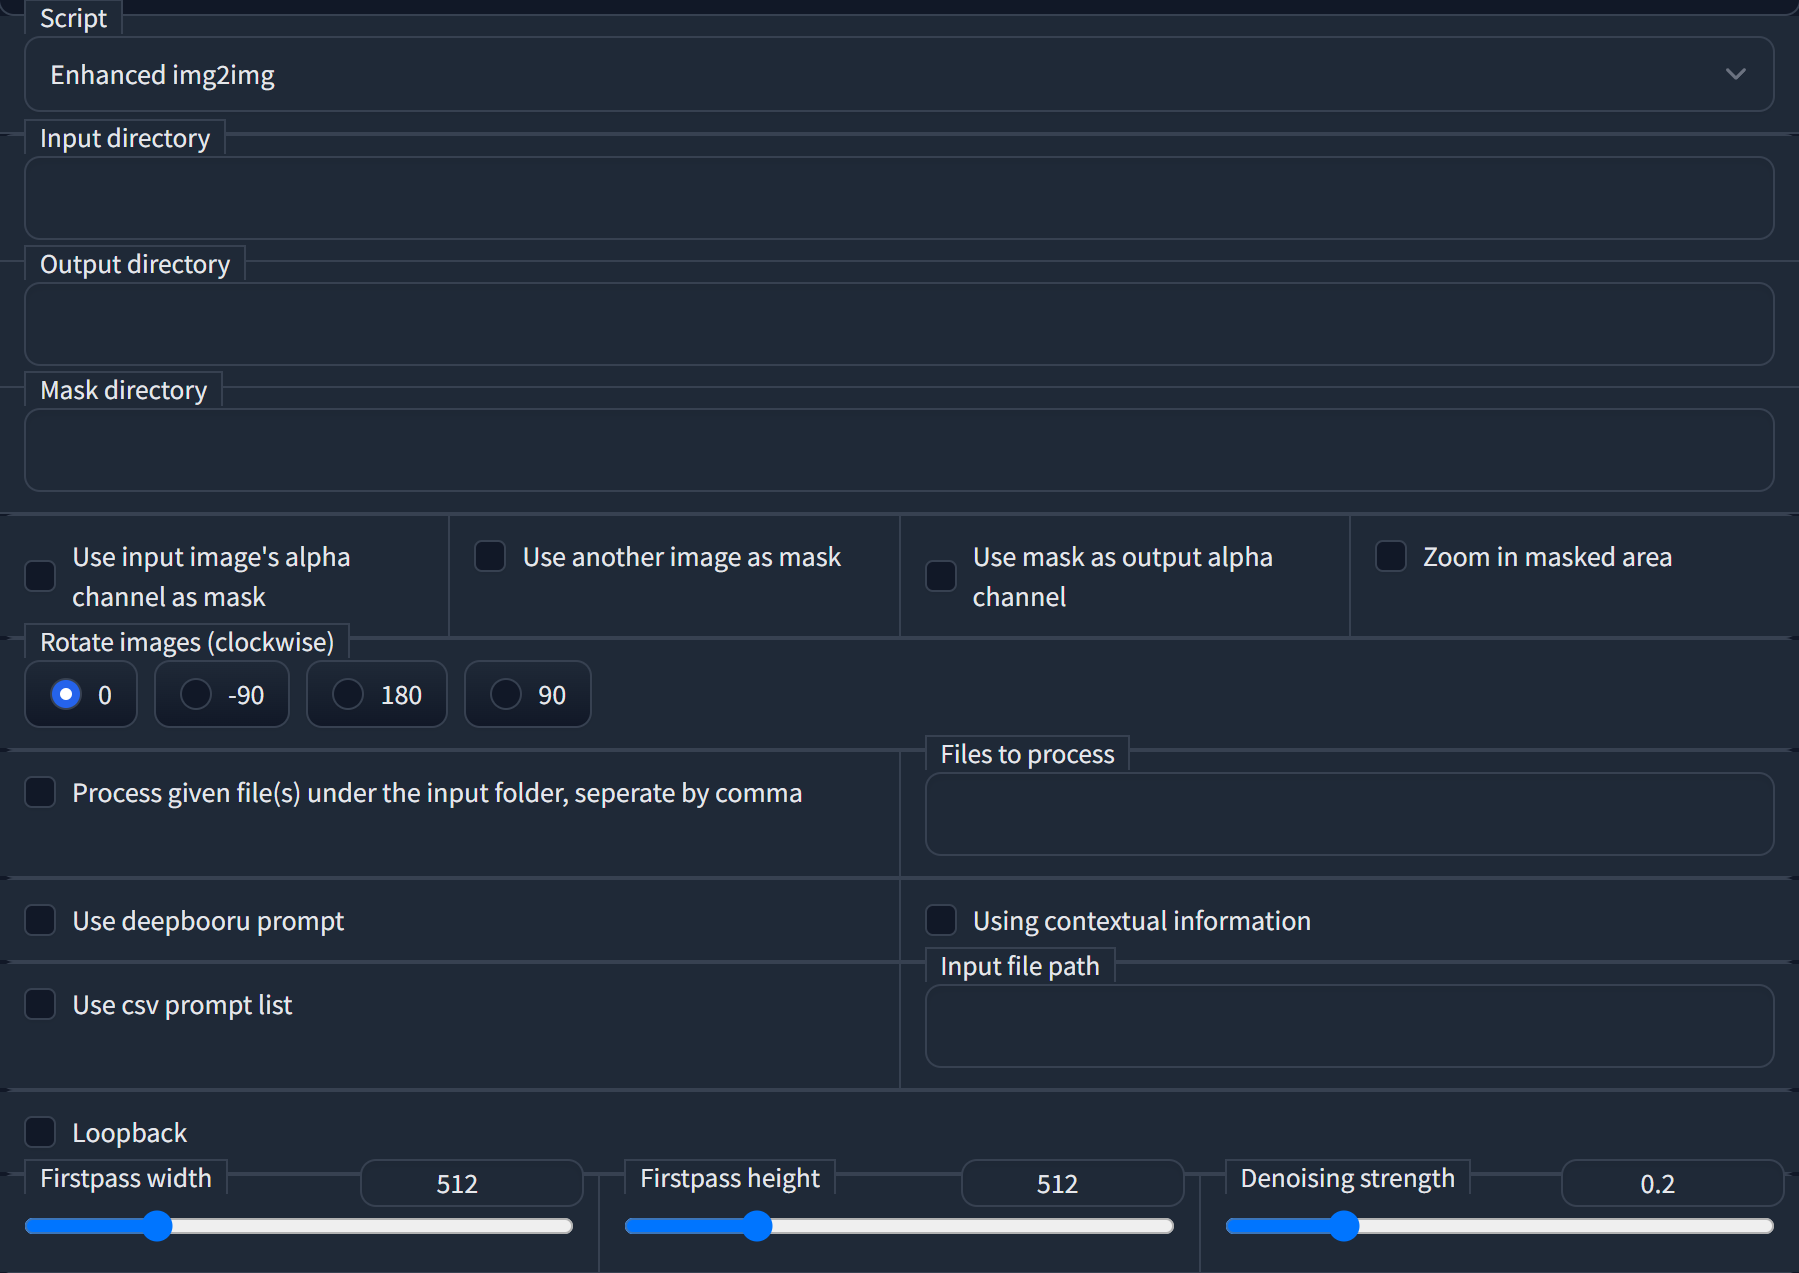
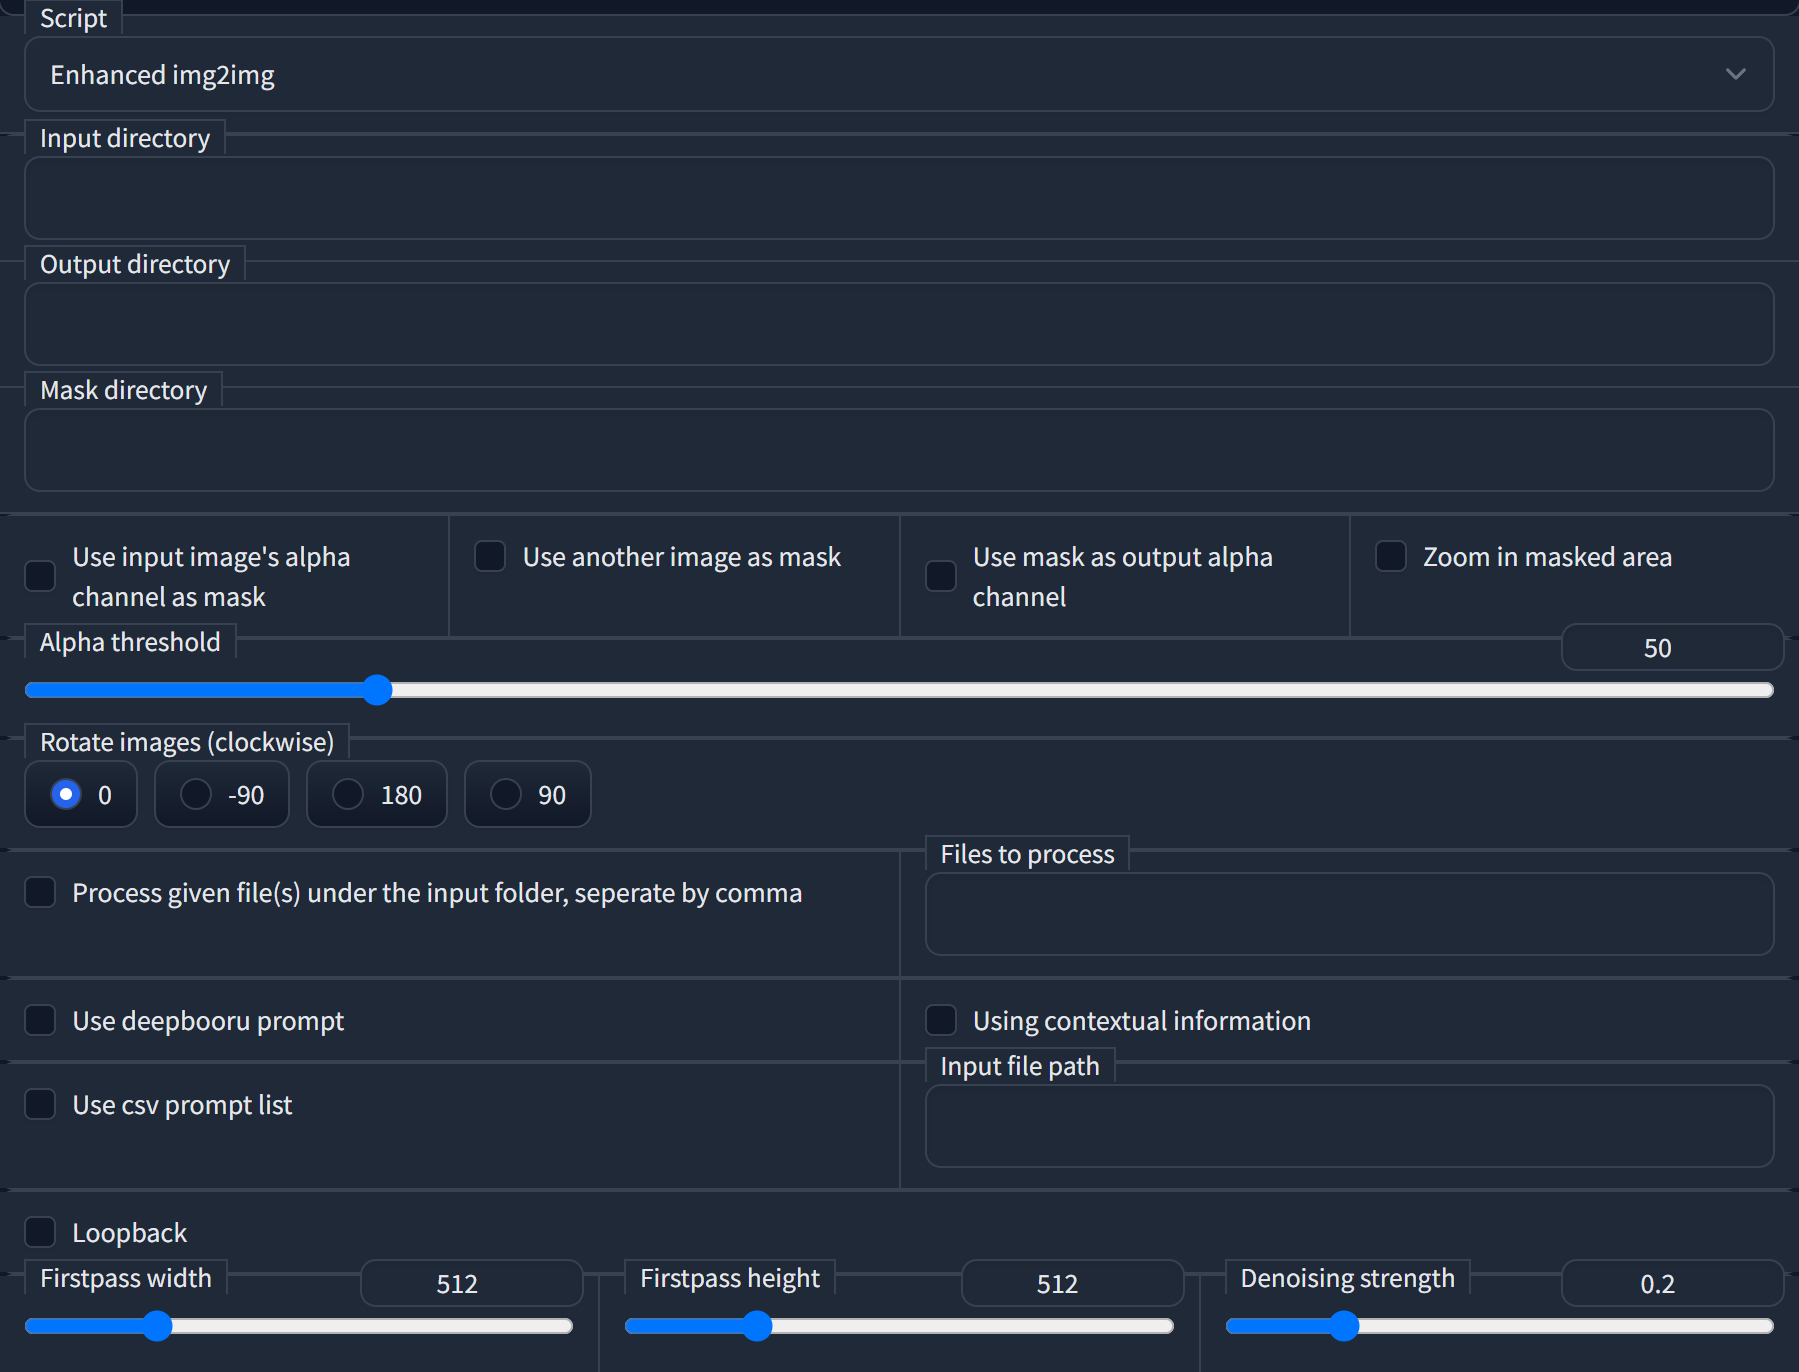
Update README

diff --git a/README.md b/README.md
@@ -12,16 +12,14 @@ Switch to **"img2img"** tab, under the **"script"** column, select **"enhanced i
 
 ![](screenshot.png)
 
- - **Input directory**: a folder containing all the images you want to process.
- - **Output directory**: a folder to save output images.
- - **Mask directory**: a folder containing all the masks. *Not essential*.
- - **Use input image's alpha channel as mask**: if your original images are PNG files with transparent backgrounds, you can use this option to create outputs with transparent backgrounds. 
-   *Note: when this option is selected, the masks in the "**mask directory**" will not be used.*
- - **Use another image as mask**: use masks in the "**mask directory**" to inpaint images.
-   *Note: if the relevant masks are blank images or no mask is provided, the original images will not be processed.*
- - **Use mask as output alpha channel**: as it says.
-   *Note: when the "**use input image's alpha channel as mask**" option is selected, this option is automatically activated.*
+  - **Input directory**: a folder containing all the images you want to process.
+  - **Output directory**: a folder to save output images.
+  - **Mask directory**: a folder containing all the masks. *Not essential*.
+  - **Use input image's alpha channel as mask**: if your original images are PNG files with transparent backgrounds, you can use this option to create outputs with transparent backgrounds. *Note: when this option is selected, the masks in the "**mask directory**" will not be used.*
+  - **Use another image as mask**: use masks in the "**mask directory**" to inpaint images. *Note: if the relevant masks are blank images or no mask is provided, the original images will not be processed.*
+  - **Use mask as output alpha channel**: as it says. *Note: when the "**use input image's alpha channel as mask**" option is selected, this option is automatically activated.*
   - **Zoom in masked area**: crop and resize the masked area to square images; this will give better results when the masked area is relatively small compared to the original images.
+  - **Alpha threshold**: alpha value for determine background and foreground.
   - **Rotate images (clockwise)**: as it says, this can improve AI's performance when the original images are upside down.
   - **Process given file(s) under the input folder, seperate by comma**: process certain image(s) from the text box right to it; if this option is not checked, all the images under the folder will be processed.
   - **Files to process**: filenames of images you want to process. I recommend naming your images with a digit suffixes, e.g. `000233.png, 000234.png, 000235.png, ...` or `image_233.jpg, image_234.jpg, image_235.jpg, ...`. In this way, you can use `233,234,235` or simply `233-235` to assign these files. Otherwise, you need to give the full filenames like `image_a.webp,image_b.webp,image_c.webp`.
